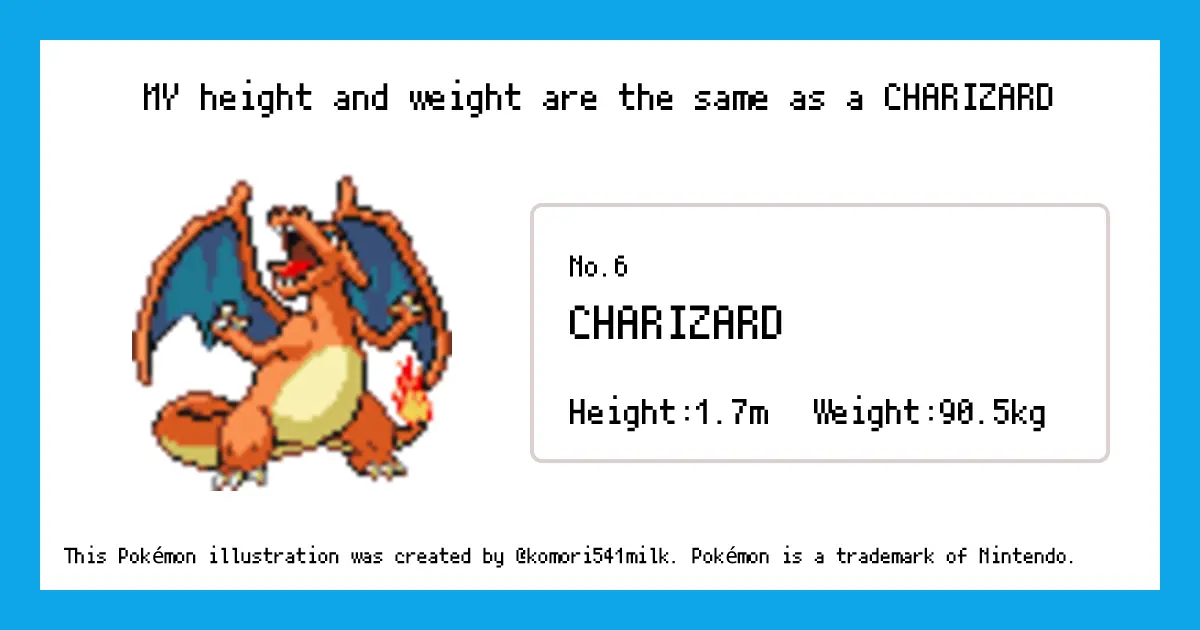
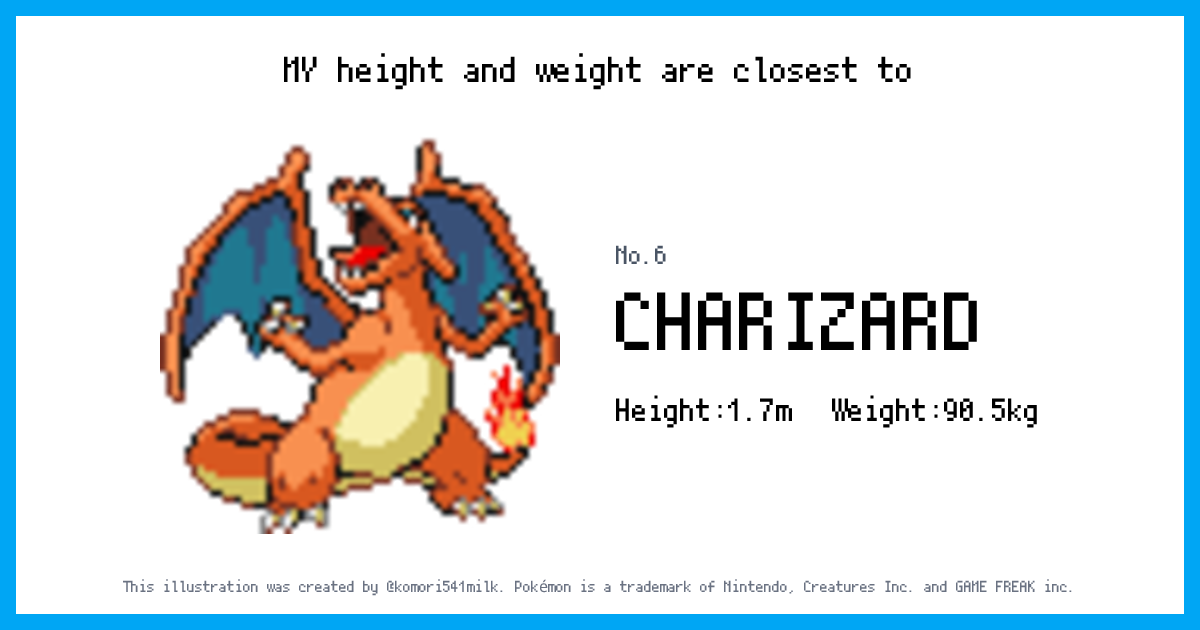
chore: PokeFit のカードをリニューアル後の内容に更新する
PokeFit が Vercel から Cloudflare Workers へ移行し、あわせてデザインも
刷新されたため、ポートフォリオ側のカードを追従させる。

- 画像を pokefit リポジトリの app/public/example_en.png に差し替える。
  旧画像は角丸の枠を持つ一世代前の OG カードで、現在の見た目と異なる。
- 紹介文を "the same height and weight as you" から
  "closest in height and weight to you" に変更する。PokeFit の検索は
  abs(height - ?) * 10 + abs(weight - ?) / 20 の最近傍であり完全一致を
  保証しないため、本体側も同じ理由で "closest" に統一している。
  文言は app/src/locales/en.ts の TOP_LEAD に揃えた。
- リンク先を pokefit.vercel.app から正規ドメインの pokefit.club へ
  変更する。前者は全パスを後者へ 308 で飛ばすだけのリダイレクト用
  シムになっており、畳まれた時点でリンク切れになる。

diff --git a/public/index.html b/public/index.html
@@ -141,12 +141,12 @@
     </div>
     <div class="apps-list">
       <!-- PokeFit -->
-      <a href="https://pokefit.vercel.app/" class="app-card" target="_blank" rel="noopener">
+      <a href="https://pokefit.club/" class="app-card" target="_blank" rel="noopener">
         <div class="app-img"><img src="/img/pokefit.png" alt="PokeFit"></div>
         <div class="app-body">
           <span class="badge badge-green">Web App</span>
           <h3 class="app-title">PokeFit</h3>
-          <p class="app-desc">Find the Pok&eacute;mon with the same height and weight as you.</p>
+          <p class="app-desc">Find the Pok&eacute;mon closest in height and weight to you.</p>
         </div>
       </a>
       <!-- Git First Commit -->
